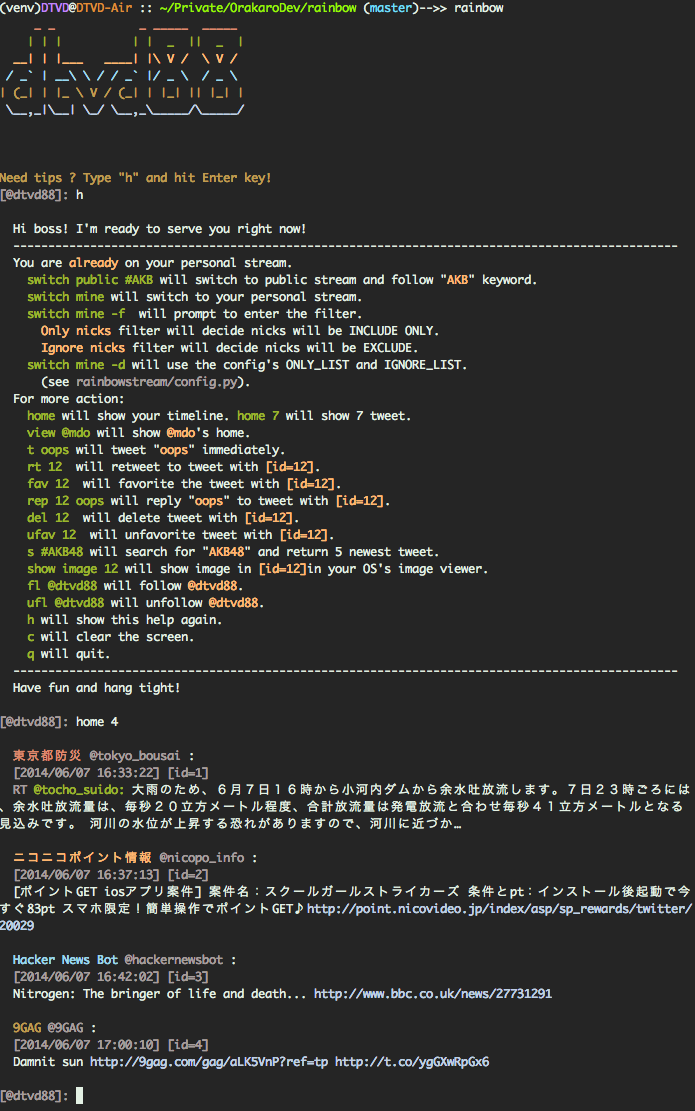
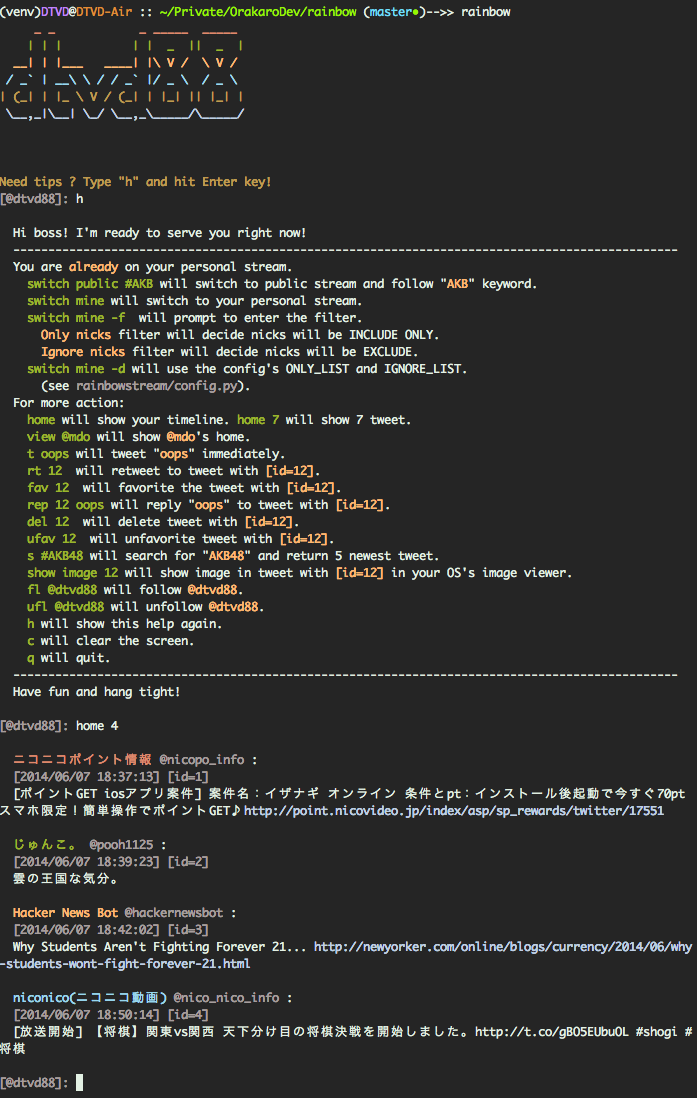
update help

Changed region(s): [[0.0, 0.1548, 0.9971, 0.9599], [0.0, 0.0, 0.7252, 0.1239]]

diff --git a/rainbowstream/rainbow.py b/rainbowstream/rainbow.py
@@ -524,8 +524,8 @@ def help():
         yellow('[id=12]') + '.\n'
     usage += s * 2 + green('s #AKB48') + ' will search for "' + \
         yellow('AKB48') + '" and return 5 newest tweet.\n'
-    usage += s * 2 + green('show image 12') + ' will show image in ' + \
-        yellow('[id=12]') + 'in your OS\'s image viewer.\n'
+    usage += s * 2 + green('show image 12') + ' will show image in tweet with ' + \
+        yellow('[id=12]') + ' in your OS\'s image viewer.\n'
     usage += s * 2 + green('fl @dtvd88') + ' will follow ' + \
         yellow('@dtvd88') + '.\n'
     usage += s * 2 + green('ufl @dtvd88') + ' will unfollow ' + \
